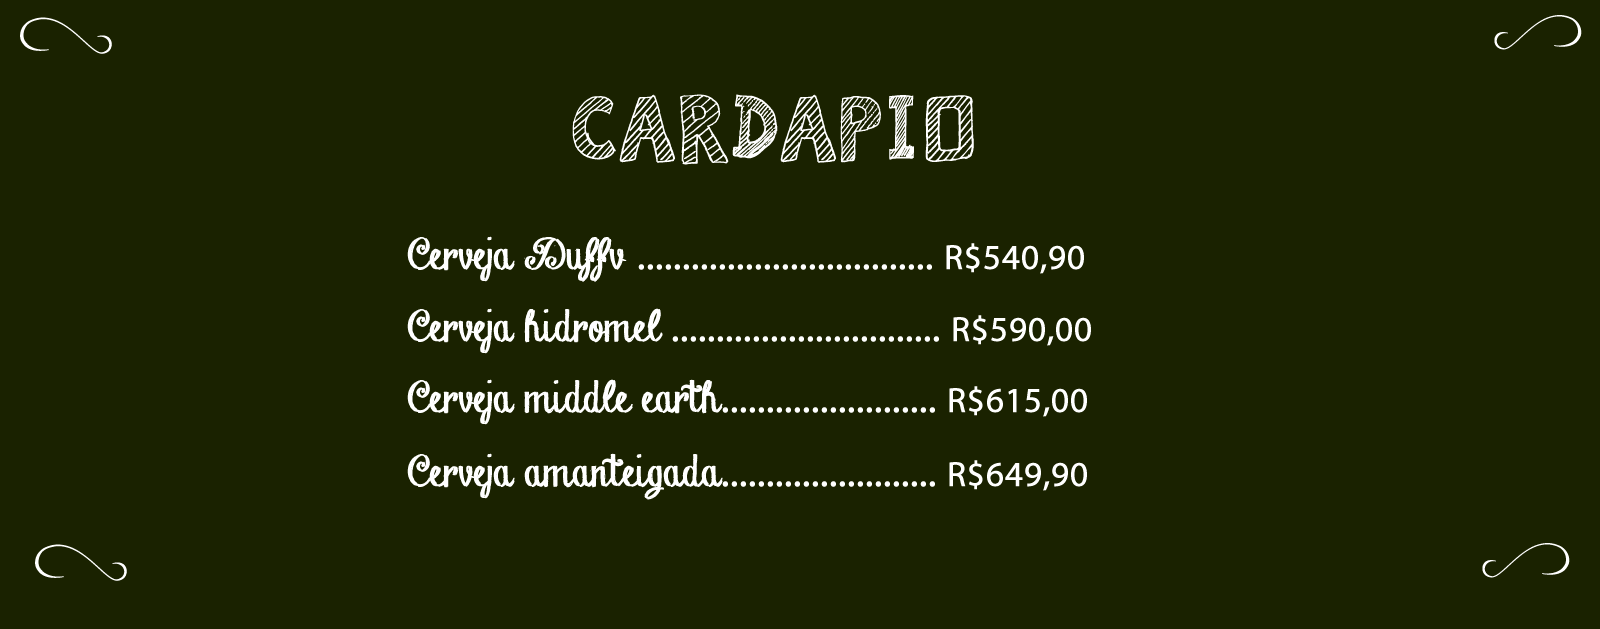
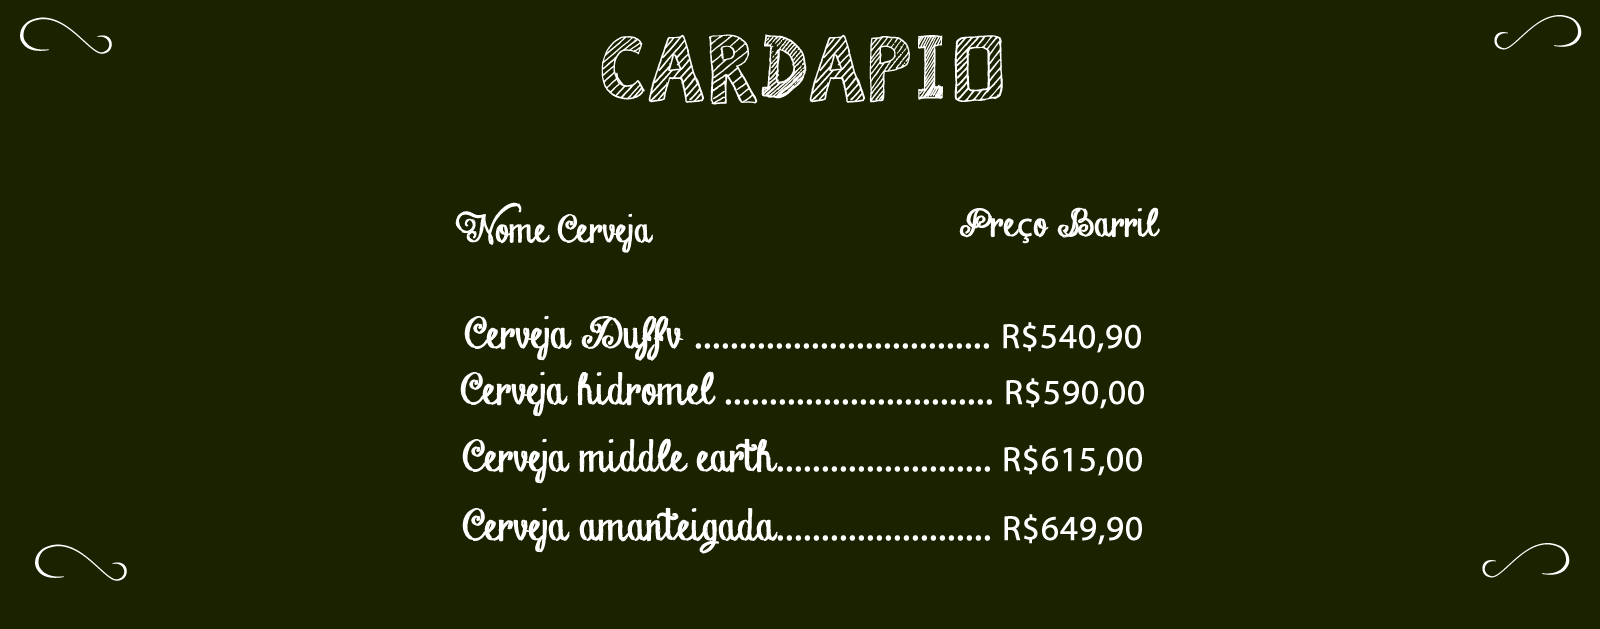
Finalizado a Página inicial

diff --git a/index.html b/index.html
@@ -45,11 +45,54 @@
                     <div class="logoCenter"><img src="img/BeerLOGOO.png"></div><!--FIM LOGO CENTER-->
                     <div class="Text-Block">
                         <h3>Brinde com o seu amor</h3>
-                        <p>A vida é tão bela, kkk!</p>
+                        <p>
+                            Dividir a vida com alguém é tão bom quanto
+                            compartilhar uma cerveja e bons papos. Escolha
+                            um belo lugar, sua companhia e nossa cerveja, seja
+                            feliz!<br><br>
+                        </p>
+                        <div class="descricao">
+                            <strong>Recomendada <i>Hidromel:</i></strong>
+                            <ul>
+                                <li>Sabores suaves para um fim de tarde/jantar.</li>
+                                <li>Ótima para degustação com companhia.</li>
+                            </ul>
+                        </div>
                     </div><!--FIM TEXT BLOCK-->
                 </div><!--FIM CALL ONE-->
+                <hr>
+                <div class="Call_one2">
+                    <div class="Text-Block2">
+                        <h3>Comemore com seus amigos</h3>
+                            <p>
+                             Ter um grupo de amigos é ter risada garantida.
+                             Adquira também a nossa cerveja para eternizar tais
+                             momentos com mais diversão.<br><br>
+                            </p>
+                        <div class="descricao2">
+                            <strong>Recomendada <i>Duff:</i></strong>
+                            <ul>
+                                <li>Sabores fortes, tão quanto a empolgação de fim de expediente.</li>
+                                <li>Parceira nas partidas de futebol.</li>
+                            </ul>
+                        </div>
+                    </div><!--FIM TEXT BLOCK-->
+                    <div class="logoCenter"><img src="img/BeerLOGOO.png"></div><!--FIM LOGO CENTER-->    
+                    <div class="IMAGEM2"><img src="img/Imagem2.png"></div><!--FIM IMAGEM-->
+                    </div><!--FIM CALL ONE-->
             </article><!--FIM DO ARTICLE-->
         </div><!--FIM DO CONTAINER-->
+
+<!--------------------------------------------------------------------------------------------- 
+        CARDAPIO AQUI:
+--------------------------------------------------------------------------------------------->
+        <div class="Cardapio">
+            <div class="Container">
+                <span>
+                    <img src="img/Cardapio.png">
+                </span>
+            </div>
+        </div>
         <footer>
             <p>&copy;Todos os direitos reservados a craft beer</p>
         </footer><!--FIM DO FOOTER-->

diff --git a/css/style_home.css b/css/style_home.css
@@ -1,5 +1,6 @@
 /**
 * @author: Rodrigo Andrade
+* Data: 08/06/2019
 * Descrição: Reponsável pela estilização da home.
 *
 */
@@ -51,6 +52,7 @@ article .Call_one .Text-Block{
     margin-top: 5%;
 }
 article .Call_one .Text-Block h3{
+    font-family: Georgia, 'Times New Roman', Times, serif;
     font-size: 39px;
     text-align: center;
 }
@@ -58,4 +60,71 @@ article .Call_one .Text-Block p{
     font-size: 18px;
     text-align: center;
     padding: 20px;
+}
+article .Call_one .Text-Block .descricao{
+    width: auto;
+    height: auto;
+    margin-left: 40px;
+}
+
+/**SEGUNDA IMAGEM**/
+article .Call_one2{
+    width: 100%;
+    height: 500px;
+}
+article .Call_one2 .IMAGEM2{
+    width: 484px;
+    height: 434px;
+    background: #FFF;
+    margin: 10px;
+    float: right;
+}
+
+article .Call_one2 .logoCenter{
+    width: 124px;
+    height: 128px;
+    float: left;   
+    margin-top: 15%;
+    margin-bottom:15%;
+    margin-left: 5%;
+}
+
+article .Call_one2 .Text-Block2{
+    width: 476px;
+    height: 390px;
+    float: left;
+    margin-top: 5%;
+}
+article .Call_one2 .Text-Block2 h3{
+    font-family: Georgia, 'Times New Roman', Times, serif;
+    font-size: 39px;
+    text-align: center;
+}
+article .Call_one2 .Text-Block2 p{
+    font-size: 18px;
+    text-align: center;
+    padding: 20px;
+}
+article .Call_one2 .Text-Block2 .descricao2{
+    width: auto;
+    height: auto;
+    margin-left: 40px;
+}
+
+/**CARDÁPIO**/
+.Cardapio{
+    width: 100%;
+    height: auto;
+    float: left;
+    background:  #1A2200;
+}
+.Cardapio span{
+    width: 100%;
+    height: auto;
+    margin: 0 auto;
+    align-content: center;
+}
+.Cardapio span img{
+    width: 100%;
+    height: auto;
 }

diff --git a/css/style_Default.css b/css/style_Default.css
@@ -72,6 +72,7 @@ footer{
     height: 100px;
     background: #212121;
     float: left;
+    margin-top: 100px; 
 }
 
 footer p{
